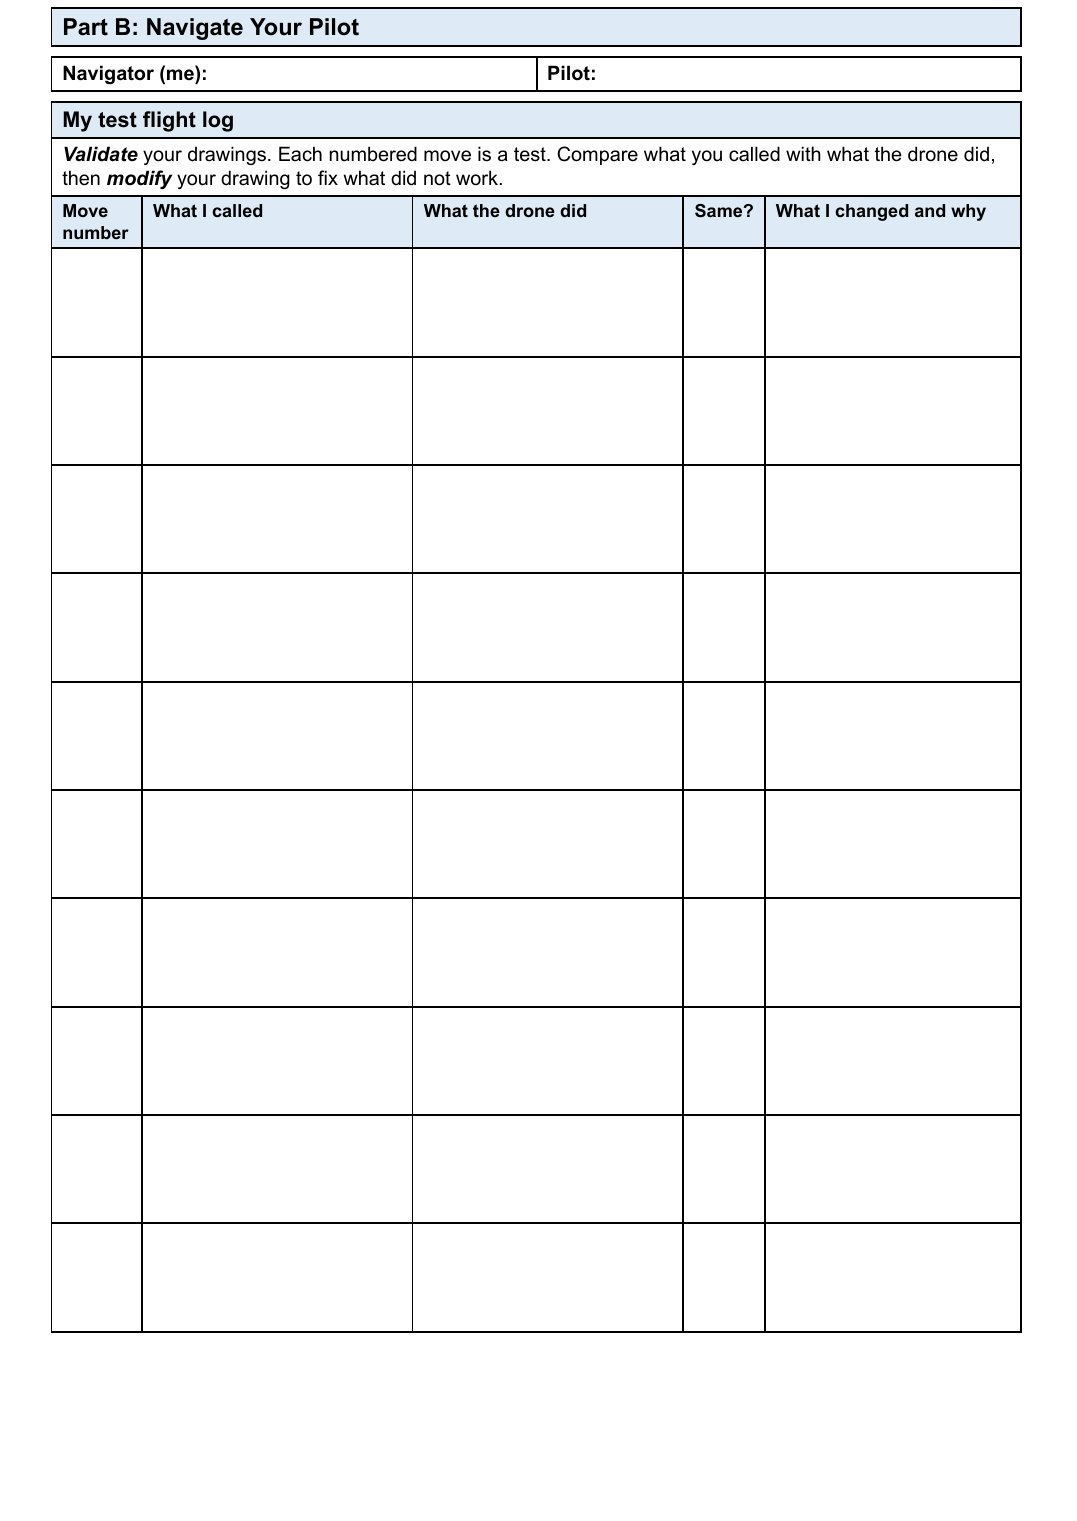
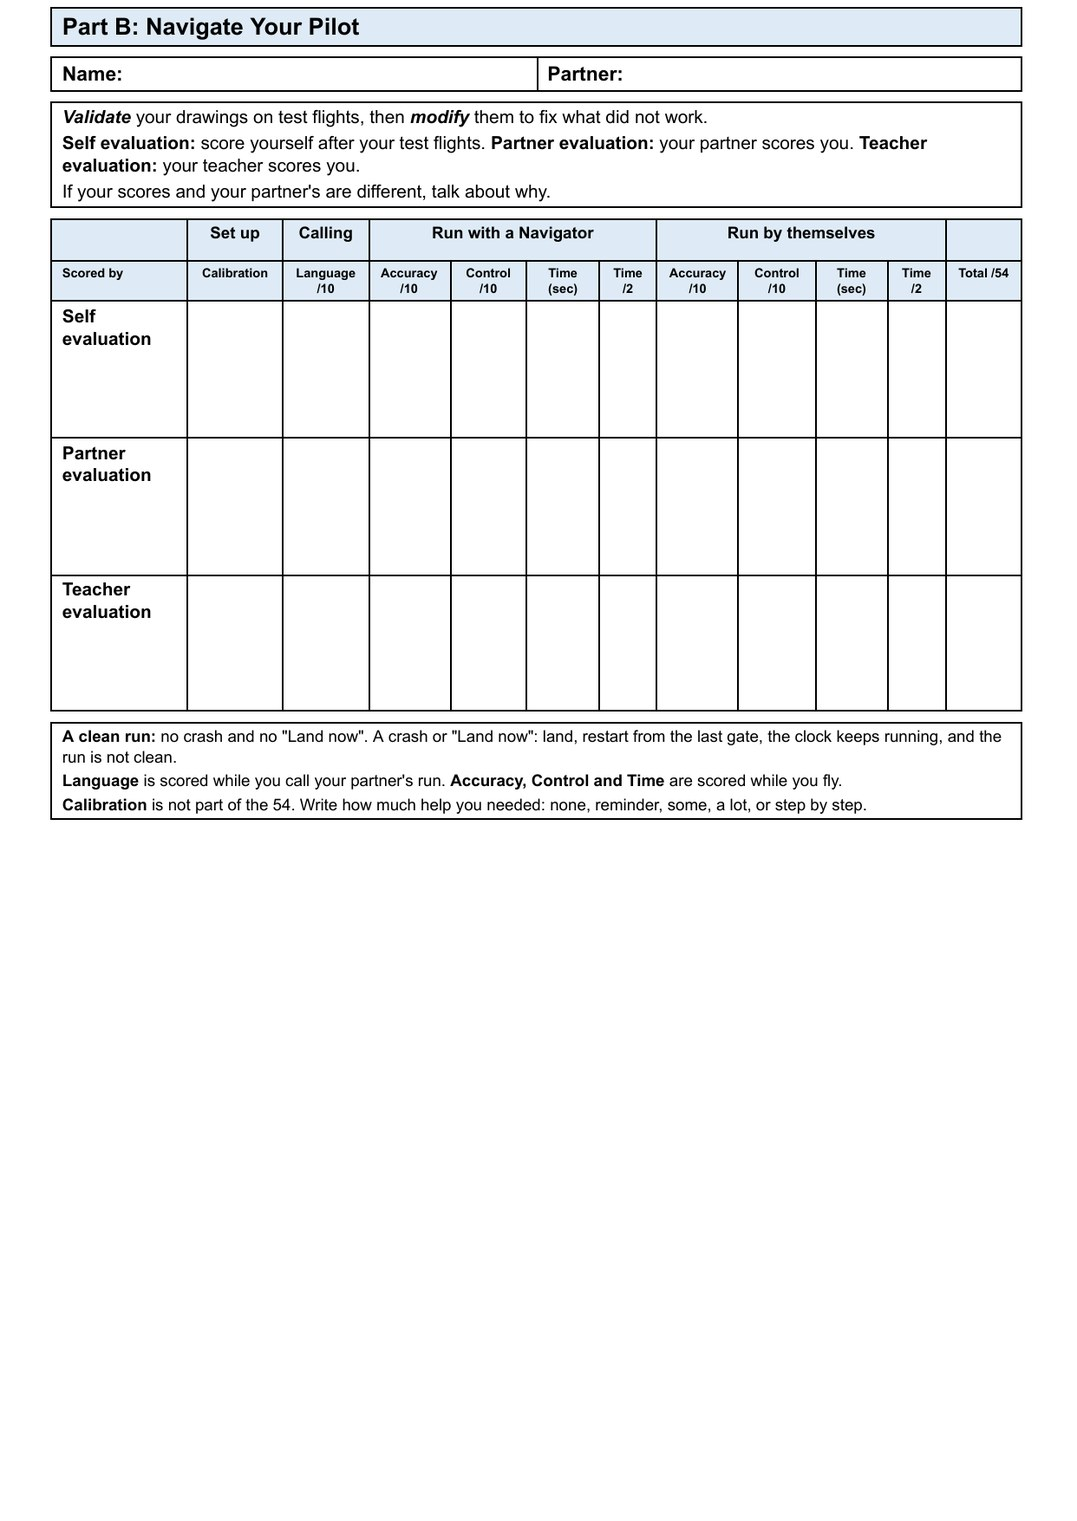
Part B: self, partner, teacher score page replaces the log (v20261104-105328)

diff --git a/g10-week10-lesson2.html b/g10-week10-lesson2.html
@@ -1592,7 +1592,7 @@ ul.plain li::before { color:var(--p-i-ink); }
     <h2 class="reveal" style="margin-bottom:calc(var(--element-gap) * 0.45)">Where we are up to</h2>
     <div class="grid" style="grid-template-columns:repeat(3, minmax(0,1fr)); gap:clamp(8px,1.1vw,18px)">
       <div class="tblock j reveal" style="outline:clamp(3px,0.3vw,6px) solid var(--p-j); outline-offset:2px"><p class="lede" style="color:var(--p-j-ink)">Part A: Draw the Course</p><p style="margin-top:0.3em">Top view and side view, in drone words, then three questions.</p><p style="margin-top:0.5em"><span class="chip red">Today: test and finish</span></p></div>
-      <div class="tblock i reveal"><p class="lede" style="color:var(--p-i-ink)">Part B: Navigate Your Pilot</p><p style="margin-top:0.3em">Call from your own drawings. Log it, fix it, fly again.</p><p style="margin-top:0.5em"><span class="chip dark">Today: start in Lesson 3</span></p></div>
+      <div class="tblock i reveal"><p class="lede" style="color:var(--p-i-ink)">Part B: Navigate Your Pilot</p><p style="margin-top:0.3em">Call from your own drawings. Score it, fix it, fly again.</p><p style="margin-top:0.5em"><span class="chip dark">Today: start in Lesson 3</span></p></div>
       <div class="tblock z reveal"><p class="lede" style="color:var(--p-z-ink)">Part C: Fly the Course</p><p style="margin-top:0.3em">Two judged runs: with your Navigator, then by yourself.</p><p style="margin-top:0.5em"><span class="chip dark">Next lesson</span></p></div>
     </div>
     <p class="reveal" style="margin-top:calc(var(--element-gap) * 0.6); display:flex; flex-wrap:wrap; gap:0.6em; align-items:center"><a class="linkbtn gold" id="task-link-1" href="https://docs.google.com/document/d/1n35jmbz63ML8zfyeTolyhRnG6n03fvstiRzlxo2qoEc/edit" target="_blank" rel="noopener">Open Task Sheet &#x2197;</a> <a class="linkbtn gold" id="assess-link-1" href="https://docs.google.com/document/d/1WBIBX8gTsyjNh2M2ZGxFLnVGSDR7pi9gv8FxNTnHxb4/edit" target="_blank" rel="noopener">Open Assessment &#x2197;</a> <a class="linkbtn gold" id="crit-link-1" href="https://docs.google.com/document/d/1Pljr79OvBaHBGmks1yXGLhRfLZOYcpIZjGV6TdREclY/edit" target="_blank" rel="noopener">Open Criteria Sheet &#x2197;</a></p>
@@ -1750,7 +1750,7 @@ ul.plain li::before { color:var(--p-i-ink); }
     <h2 class="reveal" style="margin-bottom:calc(var(--element-gap) * 0.45)">Where we are up to</h2>
     <div class="grid" style="grid-template-columns:repeat(3, minmax(0,1fr)); gap:clamp(8px,1.1vw,18px)">
       <div class="tblock j reveal" style="outline:clamp(3px,0.3vw,6px) solid var(--p-j); outline-offset:2px"><p class="lede" style="color:var(--p-j-ink)">Part A: Draw the Course</p><p style="margin-top:0.3em">Top view and side view, in drone words, then three questions.</p><p style="margin-top:0.5em"><span class="chip red">You are here: finish it</span></p></div>
-      <div class="tblock i reveal"><p class="lede" style="color:var(--p-i-ink)">Part B: Navigate Your Pilot</p><p style="margin-top:0.3em">Call from your own drawings. Log it, fix it, fly again.</p><p style="margin-top:0.5em"><span class="chip dark">Next: Lesson 3</span></p></div>
+      <div class="tblock i reveal"><p class="lede" style="color:var(--p-i-ink)">Part B: Navigate Your Pilot</p><p style="margin-top:0.3em">Call from your own drawings. Score it, fix it, fly again.</p><p style="margin-top:0.5em"><span class="chip dark">Next: Lesson 3</span></p></div>
       <div class="tblock z reveal"><p class="lede" style="color:var(--p-z-ink)">Part C: Fly the Course</p><p style="margin-top:0.3em">Two judged runs: with your Navigator, then by yourself.</p><p style="margin-top:0.5em"><span class="chip dark">Next lesson</span></p></div>
     </div>
     <p class="reveal" style="margin-top:calc(var(--element-gap) * 0.6); display:flex; flex-wrap:wrap; gap:0.6em; align-items:center"><a class="linkbtn gold" id="task-link-2" href="https://docs.google.com/document/d/1n35jmbz63ML8zfyeTolyhRnG6n03fvstiRzlxo2qoEc/edit" target="_blank" rel="noopener">Open Task Sheet &#x2197;</a> <a class="linkbtn gold" id="assess-link-2" href="https://docs.google.com/document/d/1WBIBX8gTsyjNh2M2ZGxFLnVGSDR7pi9gv8FxNTnHxb4/edit" target="_blank" rel="noopener">Open Assessment &#x2197;</a> <a class="linkbtn gold" id="crit-link-2" href="https://docs.google.com/document/d/1Pljr79OvBaHBGmks1yXGLhRfLZOYcpIZjGV6TdREclY/edit" target="_blank" rel="noopener">Open Criteria Sheet &#x2197;</a></p>
@@ -1828,7 +1828,7 @@ ul.plain li::before { color:var(--p-i-ink); }
     <h2 class="reveal" style="margin-bottom:calc(var(--element-gap) * 0.45)">Where we are up to</h2>
     <div class="grid" style="grid-template-columns:repeat(3, minmax(0,1fr)); gap:clamp(8px,1.1vw,18px)">
       <div class="tblock j reveal"><p class="lede" style="color:var(--p-j-ink)">Part A: Draw the Course</p><p style="margin-top:0.3em">Top view and side view, in drone words, then three questions.</p><p style="margin-top:0.5em"><span class="chip dark">Finished, or finish it first</span></p></div>
-      <div class="tblock i reveal" style="outline:clamp(3px,0.3vw,6px) solid var(--p-i); outline-offset:2px"><p class="lede" style="color:var(--p-i-ink)">Part B: Navigate Your Pilot</p><p style="margin-top:0.3em">Call from your own drawings. Log it, fix it, fly again.</p><p style="margin-top:0.5em"><span class="chip red">You are here: start it</span></p></div>
+      <div class="tblock i reveal" style="outline:clamp(3px,0.3vw,6px) solid var(--p-i); outline-offset:2px"><p class="lede" style="color:var(--p-i-ink)">Part B: Navigate Your Pilot</p><p style="margin-top:0.3em">Call from your own drawings. Score it, fix it, fly again.</p><p style="margin-top:0.5em"><span class="chip red">You are here: start it</span></p></div>
       <div class="tblock z reveal"><p class="lede" style="color:var(--p-z-ink)">Part C: Fly the Course</p><p style="margin-top:0.3em">Two judged runs: with your Navigator, then by yourself.</p><p style="margin-top:0.5em"><span class="chip dark">Next lesson</span></p></div>
     </div>
     <p class="reveal" style="margin-top:calc(var(--element-gap) * 0.6); display:flex; flex-wrap:wrap; gap:0.6em; align-items:center"><a class="linkbtn gold" id="task-link-3" href="https://docs.google.com/document/d/1n35jmbz63ML8zfyeTolyhRnG6n03fvstiRzlxo2qoEc/edit" target="_blank" rel="noopener">Open Task Sheet &#x2197;</a> <a class="linkbtn gold" id="assess-link-3" href="https://docs.google.com/document/d/1WBIBX8gTsyjNh2M2ZGxFLnVGSDR7pi9gv8FxNTnHxb4/edit" target="_blank" rel="noopener">Open Assessment &#x2197;</a> <a class="linkbtn gold" id="crit-link-3" href="https://docs.google.com/document/d/1Pljr79OvBaHBGmks1yXGLhRfLZOYcpIZjGV6TdREclY/edit" target="_blank" rel="noopener">Open Criteria Sheet &#x2197;</a></p>
@@ -1870,25 +1870,25 @@ ul.plain li::before { color:var(--p-i-ink); }
   </div>
 </section>
 
-<section data-element="lap3" class="slide g-well" data-timer="180" data-timer-group="partb" data-notes="&lt;strong&gt;What Part B is, 3 minutes.&lt;/strong&gt; Show the Part B page big: tap the picture. The pairs are on the next slide. These are test flights, so stopping and fixing is the point. Every Navigator logs every move on their own page: what I called, what the drone did, same or not, what I changed and why. Do one row together on the board, using a move from a student&#x27;s drawing. Gadsby strand: oracy and word wealth.">
+<section data-element="lap3" class="slide g-well" data-timer="180" data-timer-group="partb" data-notes="&lt;strong&gt;What Part B is, 3 minutes.&lt;/strong&gt; Show the Part B page big: tap the picture. The pairs are on the next slide. These are test flights, so stopping and fixing is the point. Everyone has their own Part B page: after test flights they fill the Self evaluation row, then their partner fills the Partner evaluation row. If the two are different, they talk about why. You fill the Teacher evaluation row while they fly. Walk the columns once: Calibration help, Language when calling, then Accuracy, Control and Time for each run. Gadsby strand: oracy and word wealth.">
   <div class="slide-content" style="max-width:min(97vw,2500px)">
     <p class="eyebrow reveal">// lesson_3 &middot; part_b</p>
     <h2 class="reveal" style="margin-bottom:calc(var(--element-gap) * 0.3)">Part B: Navigate Your Pilot</h2>
     <div class="two-col" style="align-items:start; grid-template-columns:1.5fr 1fr">
-      <div class="reveal"><ul class="steps" style="gap:calc(var(--element-gap) * 0.3)"><li>The <b>Navigator</b> calls from their own drawings.</li><li>The <b>Pilot</b> flies only what is called.</li><li><b>Log every move:</b> what I called, what the drone did, same or not, what I changed and why.</li><li>These are test flights. <b>Stop, fix, fly again.</b></li></ul></div>
-      <div class="col-img picfig reveal" style=""><img class="photo" src="assets/assess-3.jpg" alt="Page 3 of the Assessment: the Part B test flight log"></div>
+      <div class="reveal"><ul class="steps" style="gap:calc(var(--element-gap) * 0.3)"><li>The <b>Navigator</b> calls from their own drawings.</li><li>The <b>Pilot</b> flies only what is called.</li><li><b>Score it:</b> you fill the Self row, your partner fills the Partner row, your teacher fills the Teacher row.</li><li>These are test flights. <b>Stop, fix, fly again.</b></li></ul></div>
+      <div class="col-img picfig reveal" style=""><img class="photo" src="assets/assess-3.jpg" alt="Page 3 of the Assessment: the Part B score page"></div>
     </div>
     <p class="reveal" style="margin-top:calc(var(--element-gap) * 0.35); display:flex; flex-wrap:wrap; gap:0.6em; align-items:center"><span class="chip red">3 minutes</span> <span class="chip dark">Drones landed, battery out, on the desk.</span> <a class="linkbtn gold" id="assess-link-b" href="https://docs.google.com/document/d/1WBIBX8gTsyjNh2M2ZGxFLnVGSDR7pi9gv8FxNTnHxb4/edit" target="_blank" rel="noopener">Open Assessment &#x2197;</a></p>
 
   </div>
 </section>
 
-<section data-element="lap3" class="slide g-well" data-timer="1320" data-timer-group="flights" data-cfu="Where does the Navigator look before calling the next move? || Draw a name with the Random Name Picker, hands stay down, three seconds of Wait Time, then reveal the answer. || At the drawing for the next move, then at the drone, then call it in drone words." data-notes="&lt;strong&gt;Test flights, 22 minutes. Start the clock.&lt;/strong&gt; First on the courses: Abdulla and Ahmed on Course 1, Hamdan and Mansoor on Course 2. About 3 minutes a go each way, then call the next group by name: Hessa and Mariam, then Jehad, Yara and Joud, then Yousef and Zayed. Jehad, Yara and Joud work as a three and rotate. Swap roles so everyone navigates: about 3 minutes a go. A drone switched off, or with a fresh battery, calibrates again. If behind, cut to one Navigator each and they swap first next lesson. Right Is Right on every call: send plain words back. &lt;strong&gt;Support:&lt;/strong&gt; the Navigator points at each move as they call it, using “Our first move is...”. &lt;strong&gt;Stretch:&lt;/strong&gt; call a whole course without stopping, and only change what the log shows. &lt;span class=&#x27;tag cfu&#x27;&gt;CFU&lt;/span&gt; &lt;strong&gt;Answer: at the drawing for the next move, then at the drone, then call it in drone words.&lt;/strong&gt; Wait Time three seconds.">
+<section data-element="lap3" class="slide g-well" data-timer="1320" data-timer-group="flights" data-cfu="Where does the Navigator look before calling the next move? || Draw a name with the Random Name Picker, hands stay down, three seconds of Wait Time, then reveal the answer. || At the drawing for the next move, then at the drone, then call it in drone words." data-notes="&lt;strong&gt;Test flights, 22 minutes. Start the clock.&lt;/strong&gt; First on the courses: Abdulla and Ahmed on Course 1, Hamdan and Mansoor on Course 2. About 3 minutes a go each way, then call the next group by name: Hessa and Mariam, then Jehad, Yara and Joud, then Yousef and Zayed. Jehad, Yara and Joud work as a three and rotate. Swap roles so everyone navigates: about 3 minutes a go. A drone switched off, or with a fresh battery, calibrates again. If behind, cut to one Navigator each and they swap first next lesson. Right Is Right on every call: send plain words back. &lt;strong&gt;Support:&lt;/strong&gt; the Navigator points at each move as they call it, using “Our first move is...”. &lt;strong&gt;Stretch:&lt;/strong&gt; call a whole course without stopping, and only change what the scores show. &lt;span class=&#x27;tag cfu&#x27;&gt;CFU&lt;/span&gt; &lt;strong&gt;Answer: at the drawing for the next move, then at the drone, then call it in drone words.&lt;/strong&gt; Wait Time three seconds.">
   <div class="slide-content" style="max-width:min(97vw,2500px)">
     <p class="eyebrow reveal">// lesson_3 &middot; test_flights</p>
     <h2 class="reveal" style="margin-bottom:calc(var(--element-gap) * 0.3)">Test flights</h2>
     <div class="two-col" style="align-items:start; grid-template-columns:1.5fr 1fr">
-      <div class="reveal"><ul class="steps" style="gap:calc(var(--element-gap) * 0.3)"><li><b>Two groups fly now.</b> Mr Igor calls the next group onto a course.</li><li>Waiting? Check your drawing and your log page.</li><li>Look at your drawing, then the drone, then <b>call it in drone words</b>.</li><li><b>Log it, fix it, fly again.</b></li><li><b>Swap Pilot and Navigator</b> before you leave the course.</li></ul></div>
+      <div class="reveal"><ul class="steps" style="gap:calc(var(--element-gap) * 0.3)"><li><b>Two groups fly now.</b> Mr Igor calls the next group onto a course.</li><li>Waiting? Check your drawing and fill your Self row.</li><li>Look at your drawing, then the drone, then <b>call it in drone words</b>.</li><li><b>Score it, fix it, fly again.</b></li><li><b>Swap Pilot and Navigator</b> before you leave the course.</li></ul></div>
       <div class="tblock j reveal"><p class="lede" style="color:var(--p-j-ink)">Pairs</p><ul class="plain" style="margin-top:0.3em"><li>Abdulla + Ahmed</li><li>Hamdan + Mansoor</li><li>Hessa + Mariam</li><li>Jehad + Yara + Joud</li><li>Yousef + Zayed</li></ul></div>
     </div>
     <p class="reveal" style="margin-top:calc(var(--element-gap) * 0.35); display:flex; flex-wrap:wrap; gap:0.6em; align-items:center"><span class="chip red">22 minutes</span> <span class="chip dark">Battery in? Calibrate first.</span></p>
@@ -2487,7 +2487,7 @@ ul.plain li::before { color:var(--p-i-ink); }
    The slides the teacher has hidden persist the same way, under their own version-keyed
    name, so a hide survives a refresh mid-lesson but never outlives a push.
    Everything else (font scale, teacher toggle, iSAMS state, timers) stays session-only. */
-const DECK_VERSION = 'v20261104-104927';
+const DECK_VERSION = 'v20261104-105328';
 
 /* ===========================================
    RUNTIME_STRIP: everything the boot code builds or writes at run time.
